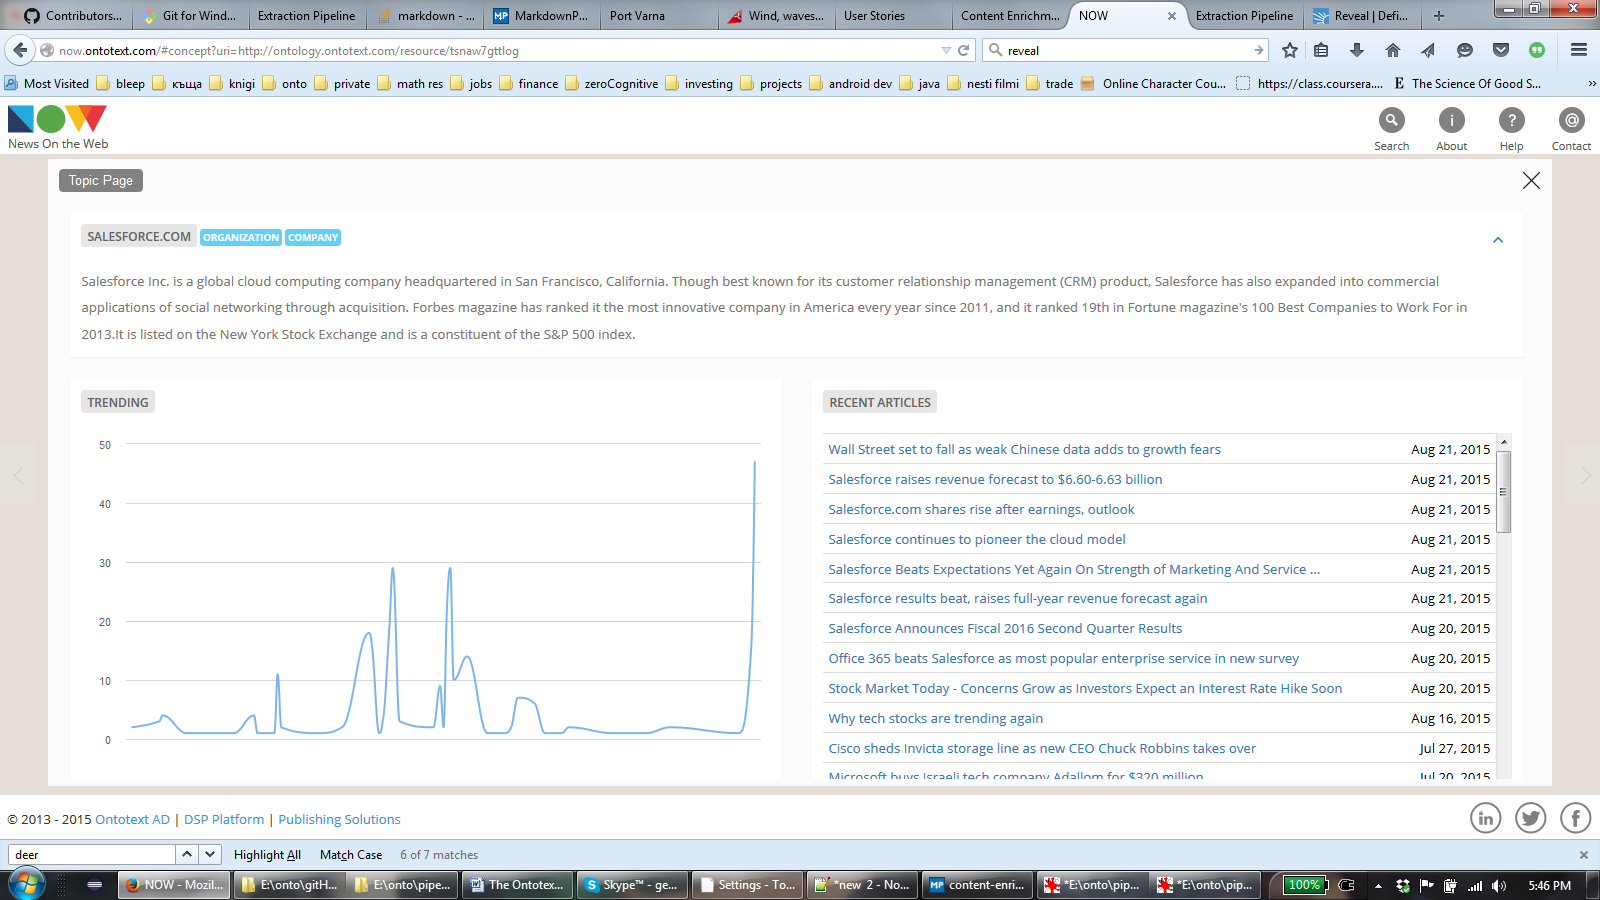
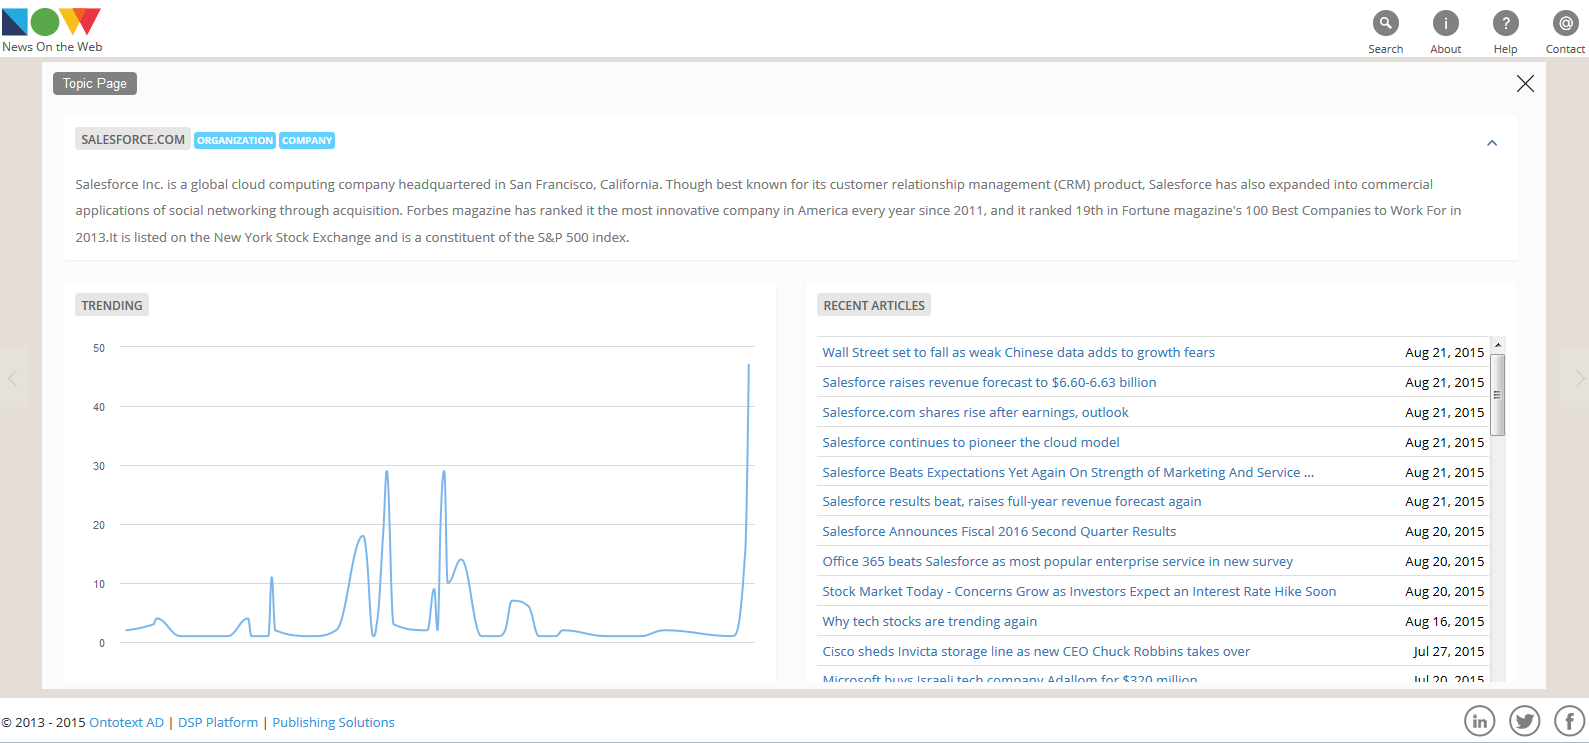
pictures size changed

Changed region(s): [[0.0, 0.0, 1.0, 1.0], [0.0617, 0.681, 0.0925, 0.712], [0.0617, 0.6191, 0.0925, 0.6501]]

diff --git a/_v1_0_0-docs/content-enrichment.md b/_v1_0_0-docs/content-enrichment.md
@@ -8,36 +8,36 @@ permalink: v1_0_0-docs/content-enrichment/
 ---
 On top of presenting the latest news by category, NOW offers a broad and in-depth perspective on each story. The coloured lines in the text show concepts, keyphrases and relationships forming the article's unique semantic fingerprint.
 
-<img src="{{ site.baseurl }}/img/OverviewArticle.png" alt="NOW Content Enrichment" style="width:900px;height:500px; margin: 0 auto">
+<img src="{{ site.baseurl }}/img/OverviewArticle.png" alt="NOW Content Enrichment" style="width:900px;height:417px; margin: 0 auto">
 
 The following entities are tagged:
 
 **Trusted Named Entities** - Entities such as Persons, Locations, Organizations, etc. that are linked to the knowledge behind.
 
-<img src="{{ site.baseurl }}/img/trustedNEv.png" alt="NOW Trusted Named Entities" style="width:400px;height:200px; margin: 0 auto">
+<img src="{{ site.baseurl }}/img/trustedNEv.png" alt="NOW Trusted Named Entities" style="width:400px;height:184px; margin: 0 auto">
 
 
 Additional background information  from the knowledge base  as well as timelines and related stories can be retrieved upon clicking on them.
 
-<img src="{{ site.baseurl }}/img/trustedNE1.png" alt="NOW Content Enrichment" style="width:900px;height:500px; margin: 0 auto">
+<img src="{{ site.baseurl }}/img/trustedNE1.png" alt="NOW Content Enrichment" style="width:900px;height:421px; margin: 0 auto">
 
 **Generated Named Entities** - We also capture mentions of Named Entities that  are not present in the knowledge base. They are tagged as Generated Named Entities.
 
 
-<img src="{{ site.baseurl }}/img/generatedNEv.png" alt="NOW Generated Named Entities" style="width:400px;height:200px; margin: 0 auto">
+<img src="{{ site.baseurl }}/img/generatedNEv.png" alt="NOW Generated Named Entities" style="width:400px;height:179px; margin: 0 auto">
 
 **Keyphrases** -  (noun-)phrases that are particularly relevant to the topic of the document. A short glance at the tagged keyphrases should reveal what this particular piece of news is about. Similarly to the named entities, the keyphrases can be trusted and generated, depending upon whether they can be linked to an object in the knowledge base.
 
-<img src="{{ site.baseurl }}/img/keyphraseV.png" alt="NOW Keyphrases" style="width:400px;height:200px; margin: 0 auto">  
+<img src="{{ site.baseurl }}/img/keyphraseV.png" alt="NOW Keyphrases" style="width:400px;height:171px; margin: 0 auto">  
 
 **Relations** between the involved named entities are tagged as well.  
 
-<img src="{{ site.baseurl }}/img/relNEv.png" alt="NOW Relations" style="width:400px;height:120px; margin: 0 auto">
+<img src="{{ site.baseurl }}/img/relNEv.png" alt="NOW Relations" style="width:400px;height:116px; margin: 0 auto">
 
 All tags also contain information on the **relevance** and the **confidence** of the particular tagged entity. The relevance score is a measure on how relevant is the particular entity to the main topic of the article. Per definitions, keyphrases are the phrases with the highest relevance score. The process of tagging the above mentioned types of entities involves a wide variety of linguistic and algorithmic resources and the confidence score is a measure of how confident are the algorithms in adding the particular tag.  
 
 All in all, the tagged entities, together with the additional information from the knowledge base, allow the reader to rapidly grasp the main topic of the article and in the same time to obtain background information on the involved people, places, organisations, quotations and the relationships between them as well as articles with a similar semantic fingerprint.
 
-<img src="{{ site.baseurl }}/img/SemanticFingerprint1.png" alt="NOW Semantic Fingerprint" style="width:300px;height:500px; margin: 0 auto">
+<img src="{{ site.baseurl }}/img/SemanticFingerprint1.png" alt="NOW Semantic Fingerprint" style="width:300px;height:541px; margin: 0 auto">
 
 As a result, NOW introduces a profound reading experience, which can be used for different kinds of analysis, forecasting, etc.

diff --git a/_v1_0_0-docs/concept-profile.md b/_v1_0_0-docs/concept-profile.md
@@ -10,26 +10,26 @@ NOW's Topic Pages provide an in-depth perspective of the people, places and orga
 
 * scan the metadata of the concept;
 
-<img src="{{ site.baseurl }}/img/Topic_Page_Metadata.png" alt="NOW Topic Page Metadata" style="width:230px;height:320px; margin: 0 auto">
+<img src="{{ site.baseurl }}/img/Topic_Page_Metadata.png" alt="NOW Topic Page Metadata" style="width:230px;height:297px; margin: 0 auto">
 
 * read a description of the concept and learn more about it;
 
-<img src="{{ site.baseurl }}/img/Topic_Page_Desc.png" alt="NOW Topic Page Description" style="width:700px;height:300px; margin: 0 auto">
+<img src="{{ site.baseurl }}/img/Topic_Page_Desc.png" alt="NOW Topic Page Description" style="width:700px;height:286px; margin: 0 auto">
 
 * see how it appears in the news for a period of time and find patterns of behaviour;
 
-<img src="{{ site.baseurl }}/img/Topic_Page_Trend_2.png" alt="NOW Topic Page Trends" style="width:500px;height:200px; margin: 0 auto">
+<img src="{{ site.baseurl }}/img/Topic_Page_Trend_2.png" alt="NOW Topic Page Trends" style="width:500px;height:371px; margin: 0 auto">
 
 * read other recent articles about it;
 
-<img src="{{ site.baseurl }}/img/Topic_Page_Recent.png" alt="NOW Topic Page Recent" style="width:500px;height:300px; margin: 0 auto">
+<img src="{{ site.baseurl }}/img/Topic_Page_Recent.png" alt="NOW Topic Page Recent" style="width:500px;height:364px; margin: 0 auto">
 
 * examine what other concepts are usually associated with it;
 
-<img src="{{ site.baseurl }}/img/Topic_Page_Ass.png" alt="NOW Topic Page Associated" style="width:500px;height:400px; margin: 0 auto">
+<img src="{{ site.baseurl }}/img/Topic_Page_Ass.png" alt="NOW Topic Page Associated" style="width:486px;height:408px; margin: 0 auto">
 
 * or explore the knoledge base directly to learn even more.
 
-<img src="{{ site.baseurl }}/img/Topic_Page_KB.png" alt="NOW Topic Page KB" style="width:500px;height:350px; margin: 0 auto">
+<img src="{{ site.baseurl }}/img/Topic_Page_KB.png" alt="NOW Topic Page KB" style="width:500px;height:367px; margin: 0 auto">
 
 In this way, users can deepen their understanding and get insights from hidden associations.

diff --git a/_v1_0_0-docs/trends.md b/_v1_0_0-docs/trends.md
@@ -11,12 +11,12 @@ NOW's Top Trends feature illustrates how the most popular concepts in a category
 
 For example, on August 15th, 2015, there were 248 mentions of the United States of America in the International news category, while in the Science and Technology category it was mentioned only 20 times.
 
-<img src="{{ site.baseurl }}/img/Top_Trends_US_Int.png" alt="NOW Top Trends US International" style="width:300px;height:200px; margin: 0 auto">
+<img src="{{ site.baseurl }}/img/Top_Trends_US_Int.png" alt="NOW Top Trends US International" style="width:300px;height:214px; margin: 0 auto">
 
-<img src="{{ site.baseurl }}/img/Top_Trends_US_ST.png" alt="NOW Top Trends US S&T" style="width:300px;height:200px; margin: 0 auto">
+<img src="{{ site.baseurl }}/img/Top_Trends_US_ST.png" alt="NOW Top Trends US S&T" style="width:300px;height:165px; margin: 0 auto">
 
 Other concepts featured most frequently in the International news category between August 8th and August 15th together with the US were Hilary Clinton and Donald Trump. However, they show different patterns of appearance depending on the events that were covered in the news during these 7 days such as Donald Trump's appearance at the Iowa State Fair, Hillary Clinton's email scandal, etc.
 
-<img src="{{ site.baseurl }}/img/Top_Trends_7_Days.png" alt="NOW Top Trends 7 Days" style="width:350px;height:300px; margin: 0 auto">
+<img src="{{ site.baseurl }}/img/Top_Trends_7_Days.png" alt="NOW Top Trends 7 Days" style="width:350px;height:361px; margin: 0 auto">
 
 By observing the patterns of presence or absence of a certain concept over time, readers can analyse and monitor content such as political campaigns, new brands/products, fashion trends, etc.

diff --git a/_v1_0_0-docs/related-content.md b/_v1_0_0-docs/related-content.md
@@ -10,6 +10,6 @@ Together with each individual news, NOW recommends more articles on the same sub
 
 For example, while reading the article "Hillary Clinton, Donald Trump and the Trumpcopter descend on the Iowa State Fair", NOW also recommends "The Donald Overshadows a Clinton at Iowa State Fair", "Clinton defends, Trump attacks Saturday at the high-profile Iowa State Fair", "The Latest: Webb decries money in politics at Iowa soapbox", etc.
 
-<img src="{{ site.baseurl }}/img/Related_Content.png" alt="NOW Related Content" style="width:800px;height:300px; margin: 0 auto">
+<img src="{{ site.baseurl }}/img/Related_Content.png" alt="NOW Related Content" style="width:800px;height:319px; margin: 0 auto">
 
 In this way, readers can explore the same event from different angles as covered by different news agencies and expand their knowledge by reading other stories about the same participants, places and organisations.

diff --git a/_v1_0_0-docs/smart-search.md b/_v1_0_0-docs/smart-search.md
@@ -12,8 +12,8 @@ NOW's search capabilities go far beyond ordinary full text search. Right from th
 
 Or they can use the autosuggest function to search for concepts, keywords, or a combination of both, if the concept is not listed or the keyword it is not in the database.
 
-<img src="{{ site.baseurl }}/img/Autosuggest.png" alt="NOW Autosuggest" style="width:400px;height:200px; margin: 0 auto">
+<img src="{{ site.baseurl }}/img/Autosuggest.png" alt="NOW Autosuggest" style="width:337px;height:176px; margin: 0 auto">
 
 In this way, readers can enjoy results that are interconnected and semantically enriched.
 
-<img src="{{ site.baseurl }}/img/Results.png" alt="NOW Results" style="width:800px;height:400px; margin: 0 auto">
+<img src="{{ site.baseurl }}/img/Results.png" alt="NOW Results" style="width:800px;height:323px; margin: 0 auto">
